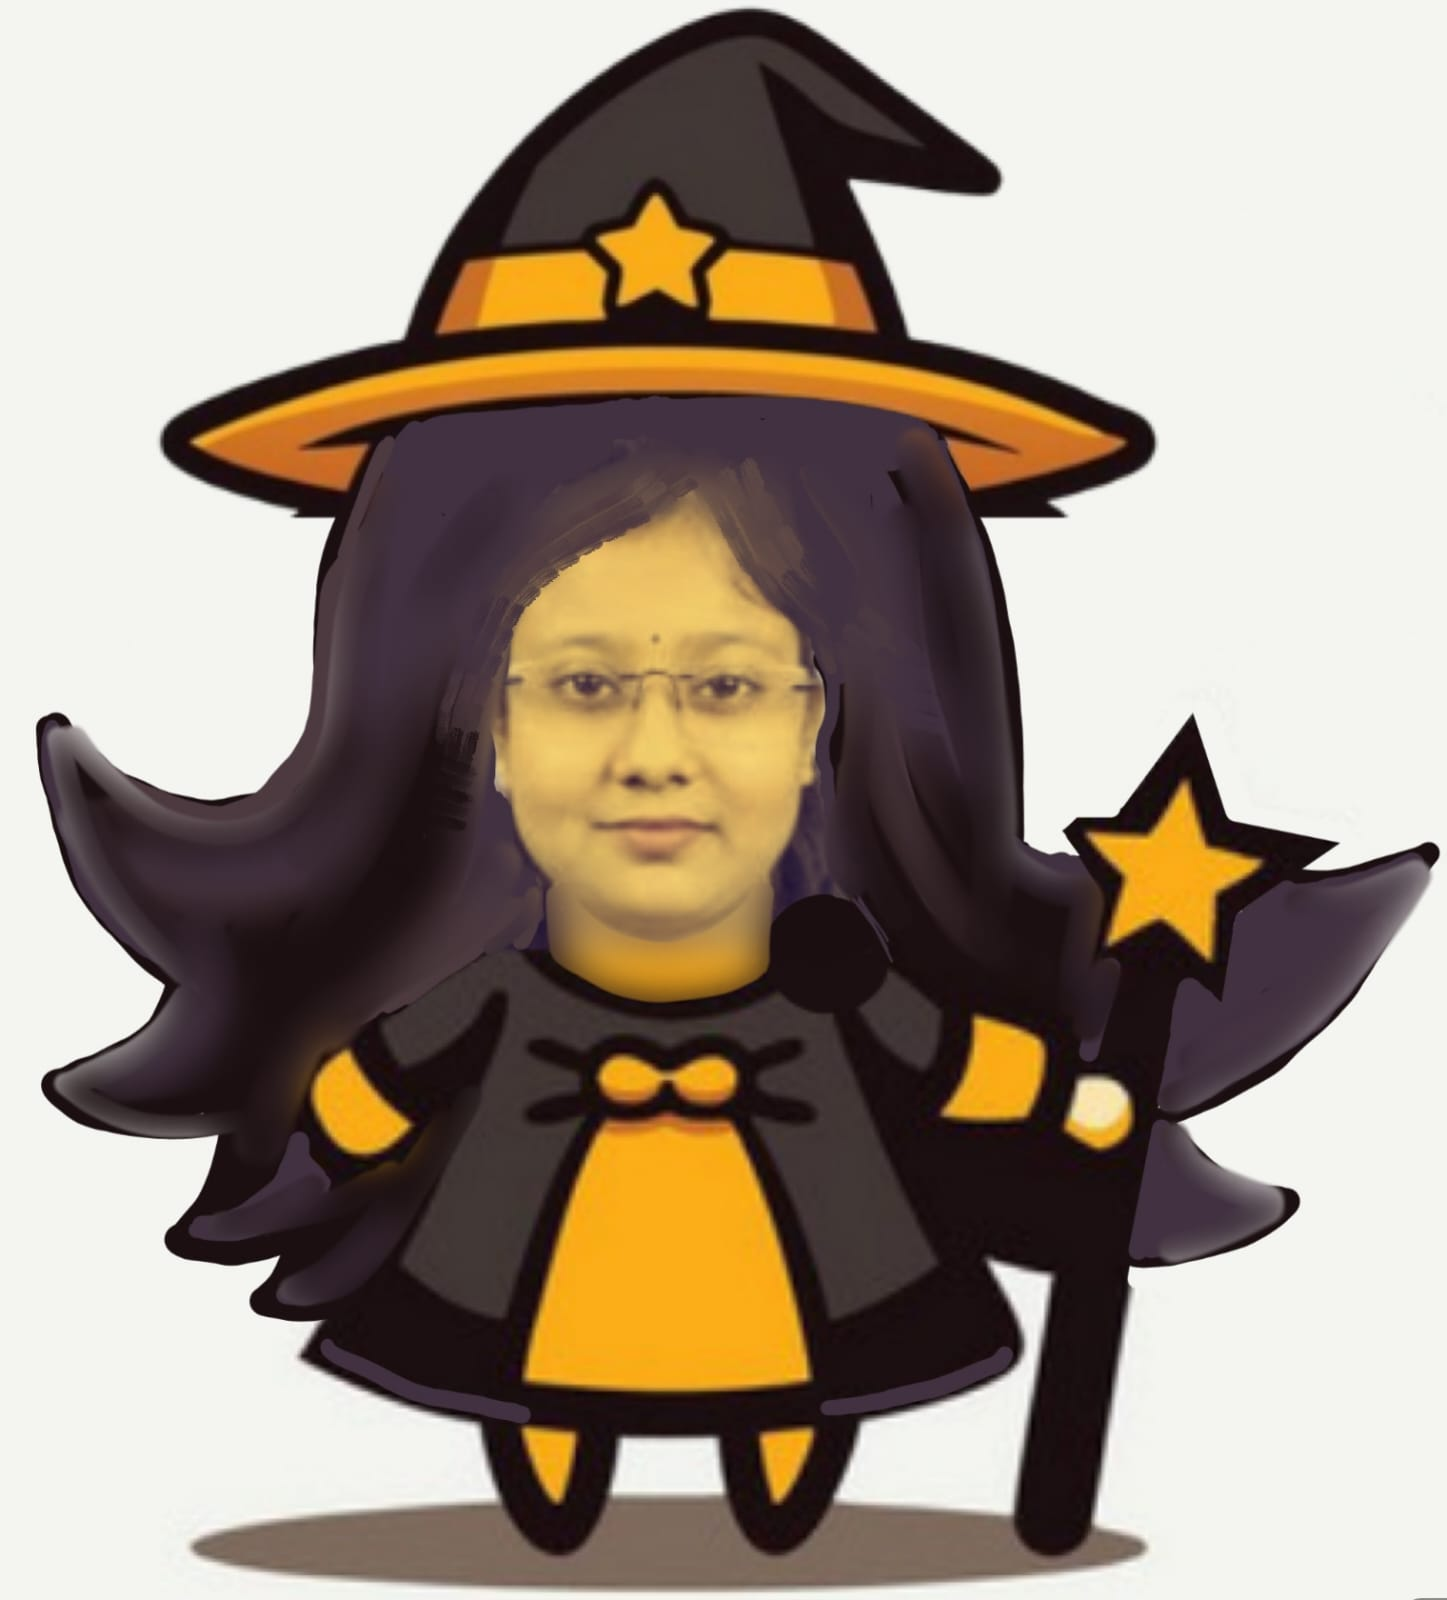
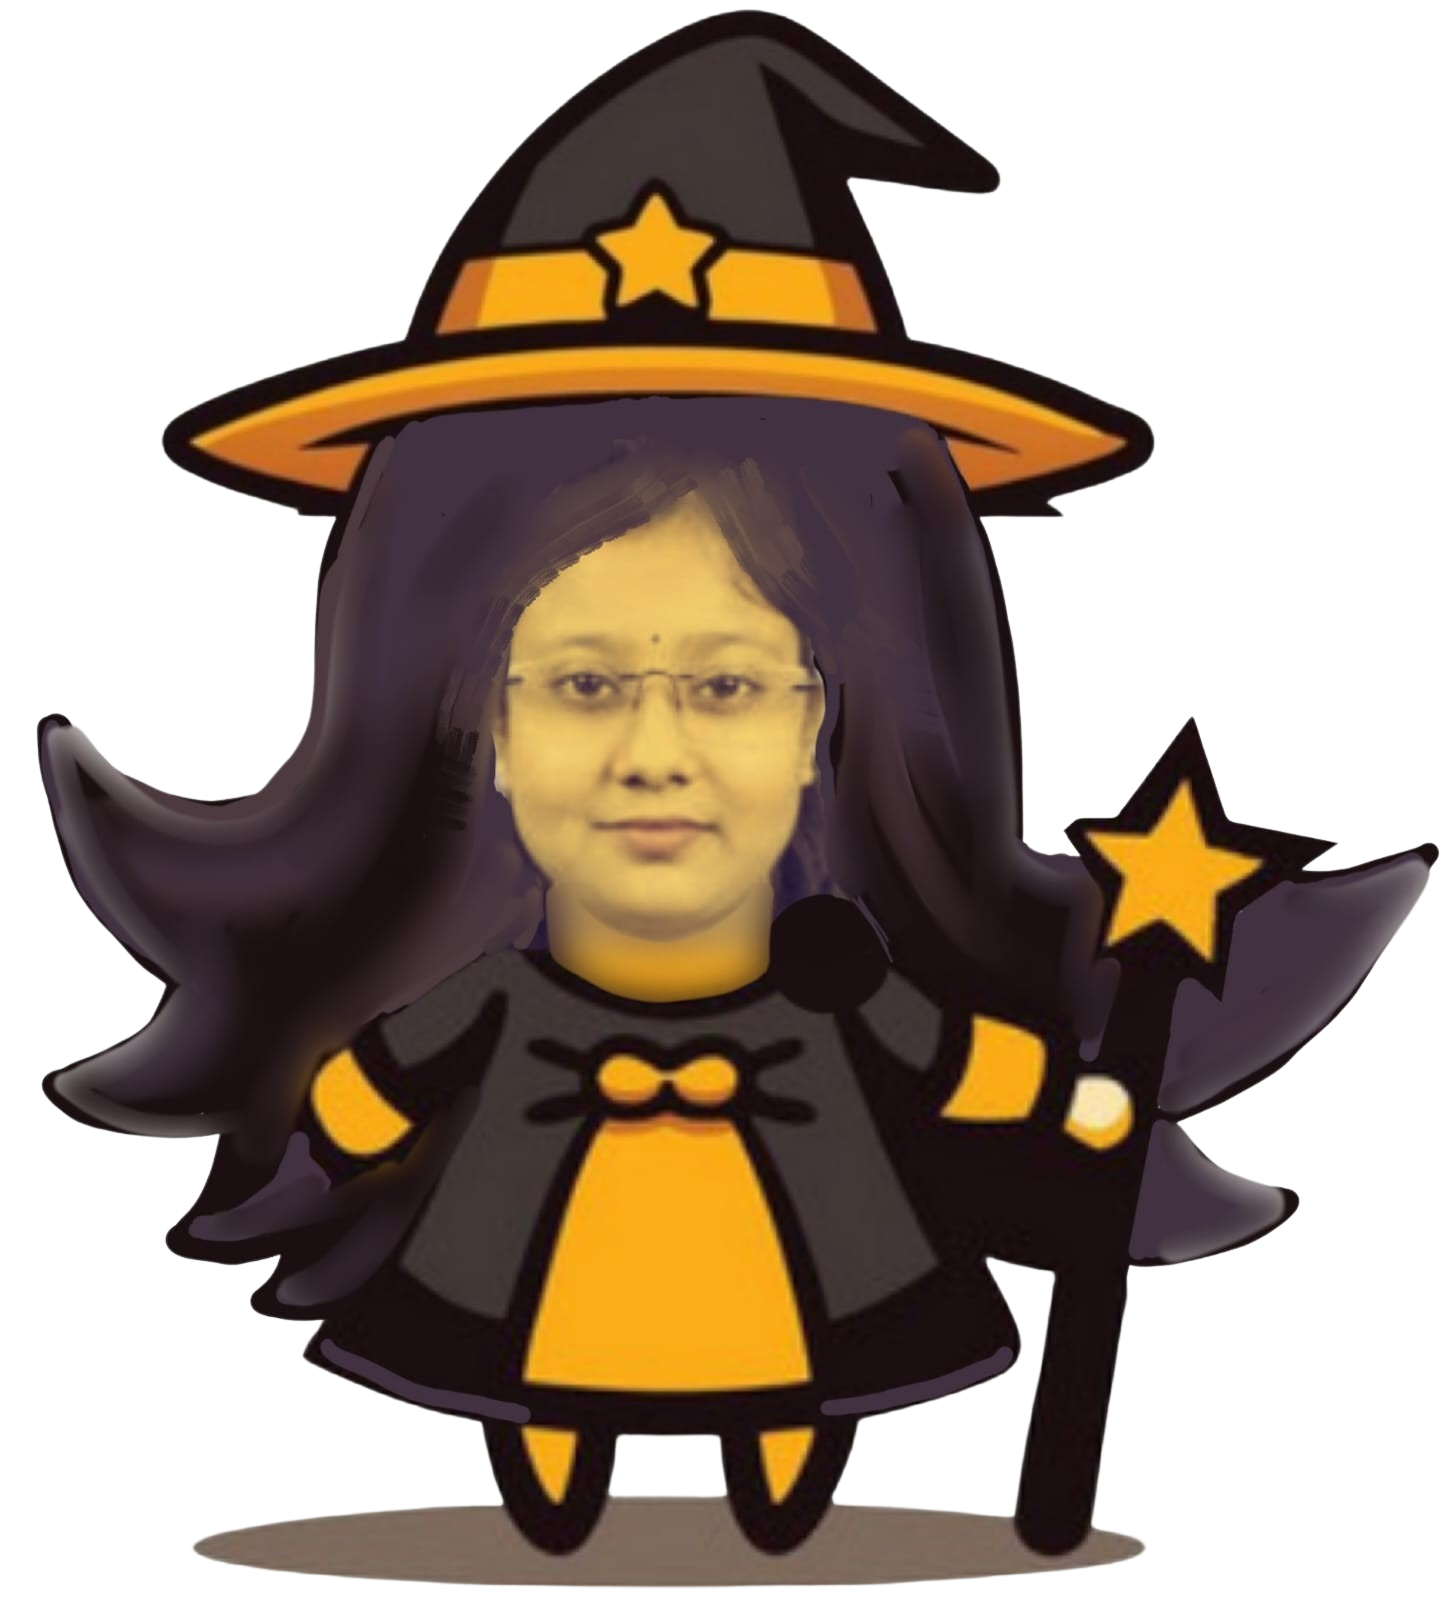
Added final image

diff --git a/coderunner/src/components/Level2.js b/coderunner/src/components/Level2.js
@@ -387,7 +387,7 @@ const Level2 = ({ onBack }) => {
       modal.strokeRoundedRect(modalX, modalY, modalWidth, modalHeight, 16);
       modal.setScrollFactor(0);
 
-      const anasuya = scene.add.image(modalX + 150, modalY + 200, 'anasuya').setScale(0.14);
+      const anasuya = scene.add.image(modalX + 150, modalY + 200, 'anasuya').setScale(0.08);
       anasuya.setOrigin(1, 0.5);
       anasuya.setScrollFactor(0);
       scene.tweens.add({

diff --git a/coderunner/src/components/LandingPage.js b/coderunner/src/components/LandingPage.js
@@ -40,7 +40,7 @@ const LandingPage = ({ onProceed }) => {
       });
 
       // Anasuya sprite with animation (adjusted to be smaller)
-      const anasuya = this.add.sprite(400, 400, 'anasuya').setScale(0.2); // Reduced from 0.45 to 0.3
+      const anasuya = this.add.sprite(400, 400, 'anasuya').setScale(0.15); // Reduced from 0.45 to 0.3
       this.tweens.add({
         targets: anasuya,
         y: anasuya.y - 20,
